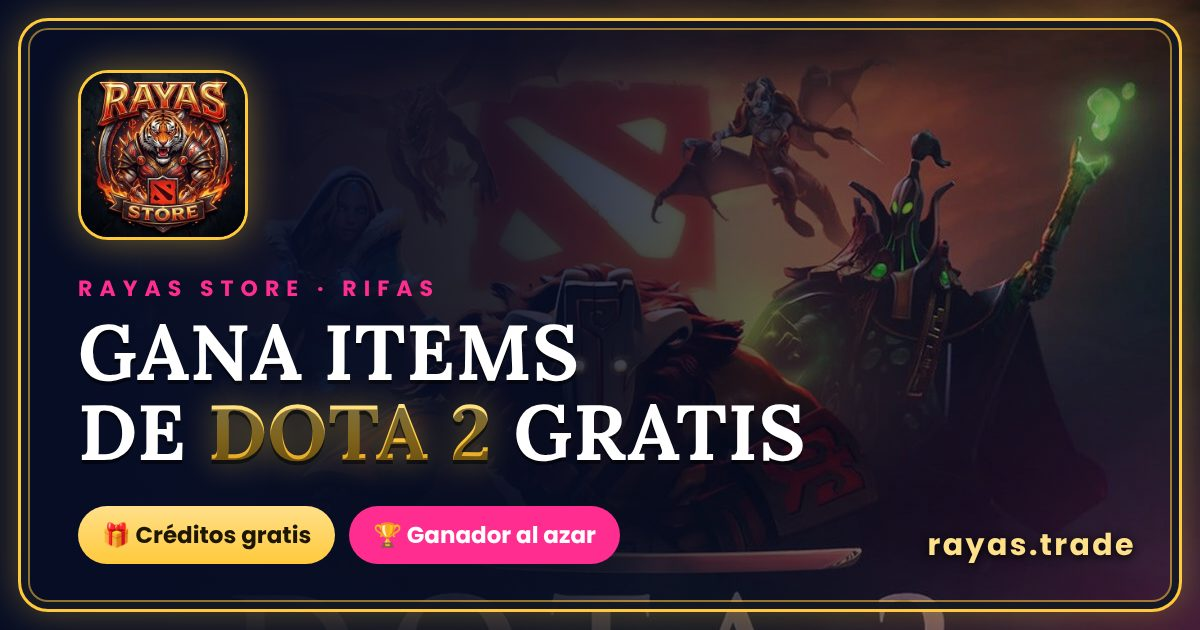
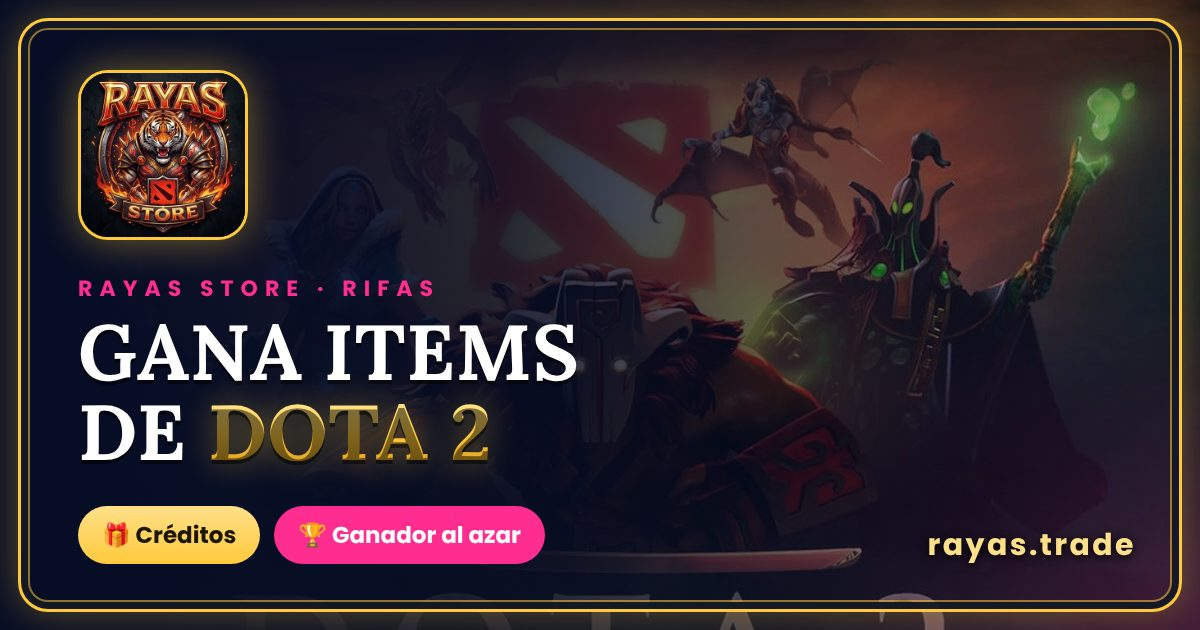
Quitar la palabra gratis de la vista previa
Claude-Session: https://claude.ai/code/session_01UZtp5QLkVRR8q5NiZJzxer

Changed region(s): [[0.185, 0.7841, 0.5242, 0.9048], [0.4317, 0.6333, 0.6783, 0.754]]

diff --git a/index.html b/index.html
@@ -4,19 +4,19 @@
 <meta charset="utf-8">
 <meta name="viewport" content="width=device-width,initial-scale=1,viewport-fit=cover">
 <title>Rayas Store · Rifas de Dota 2</title>
-<meta name="description" content="Rifas de items de Dota 2 con créditos gratis. Pide tus créditos al encargado y participa.">
+<meta name="description" content="Rifas de items de Dota 2 con créditos. Pide tus créditos al encargado y participa.">
 <meta property="og:title" content="Rayas Store · Rifas de Dota 2">
-<meta property="og:description" content="Gana items de Dota 2 gratis. Pide tus créditos y entra a la rifa.">
+<meta property="og:description" content="Gana items de Dota 2. Pide tus créditos y entra a la rifa.">
 <meta property="og:type" content="website">
 <meta property="og:site_name" content="Rayas Store">
 <meta property="og:locale" content="es_PE">
-<meta property="og:image" content="https://rayas.trade/img/preview.jpg">
+<meta property="og:image" content="https://rayas.trade/img/preview.jpg?v=2">
 <meta property="og:image:type" content="image/jpeg">
 <meta property="og:image:width" content="1200">
 <meta property="og:image:height" content="630">
-<meta property="og:image:alt" content="Rayas Store: gana items de Dota 2 gratis">
+<meta property="og:image:alt" content="Rayas Store: gana items de Dota 2">
 <meta name="twitter:card" content="summary_large_image">
-<meta name="twitter:image" content="https://rayas.trade/img/preview.jpg">
+<meta name="twitter:image" content="https://rayas.trade/img/preview.jpg?v=2">
 <meta property="og:url" content="https://rayas.trade/">
 <meta name="theme-color" content="#0a1230">
 <link rel="icon" type="image/png" sizes="64x64" href="favicon.png">
